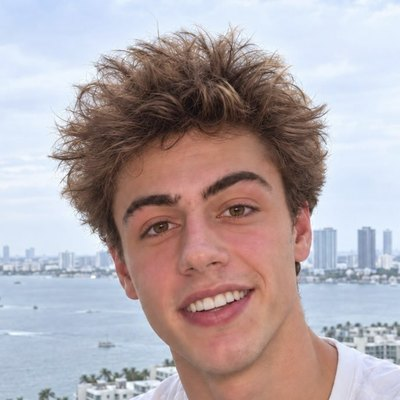
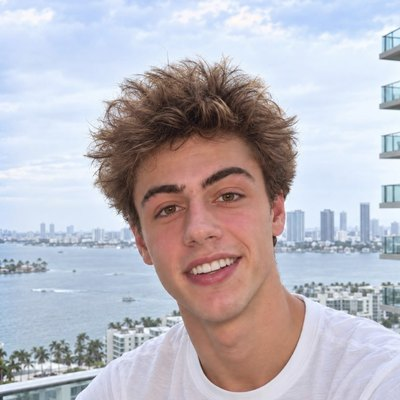
Worked with: 3+2 layout, follower counts, Kelly Cocaa, wider photo crops

diff --git a/index.html b/index.html
@@ -598,12 +598,13 @@
     flex-wrap: wrap;
     justify-content: center;
     gap: 16px;
-    margin: 0;
+    max-width: 960px;
+    margin: 0 auto;
     padding: 0;
     list-style: none;
   }
   .client-card {
-    flex: 0 1 calc((100% - 64px) / 5);
+    flex: 0 1 calc((100% - 32px) / 3);
     min-width: 0;
     padding: 16px;
     background: var(--glass-bg);
@@ -629,7 +630,23 @@
     box-shadow: 0 0 0 1.5px var(--glass-border);
     display: block;
   }
+  .client-followers {
+    display: flex;
+    flex-direction: column;
+    font-family: var(--font-display);
+    font-weight: 700;
+    font-size: var(--text-sm);
+    line-height: 1.15;
+    color: var(--ink);
+  }
+  .client-followers span {
+    font-family: var(--font-body);
+    font-weight: 400;
+    font-size: var(--text-2xs);
+    color: var(--ink-dim);
+  }
   .client-bubble {
+    margin-left: auto;
     padding: 6px 10px;
     border-radius: var(--radius-pill);
     background: var(--maroon);
@@ -656,8 +673,8 @@
     overflow-wrap: anywhere;
   }
   .client-about span { display: block; }
-  @media (max-width: 1100px) {
-    .client-card { flex-basis: calc((100% - 32px) / 3); }
+  @media (max-width: 900px) {
+    .client-bubble { margin-left: 0; }
   }
   @media (max-width: 640px) {
     .client-row { gap: 12px; }
@@ -665,6 +682,7 @@
     .client-card-top { gap: 8px; margin-bottom: 12px; }
     .client-avatar { width: 48px; height: 48px; }
     .client-bubble { padding: 5px 9px; font-size: var(--text-2xs); }
+    .client-followers { font-size: var(--text-xs); }
   }
 
   /* About */
@@ -1196,6 +1214,7 @@
       <li class="client-card">
         <div class="client-card-top">
           <img class="client-avatar" width="56" height="56" decoding="async" src="assets/client-lj.jpg" alt="">
+          <span class="client-followers">127k <span>followers</span></span>
           <span class="client-bubble">$25k/mo+</span>
         </div>
         <div class="client-name">LJ Elizarde</div>
@@ -1204,6 +1223,7 @@
       <li class="client-card">
         <div class="client-card-top">
           <img class="client-avatar" width="56" height="56" decoding="async" src="assets/client-matthew.jpg" alt="">
+          <span class="client-followers">7,034 <span>followers</span></span>
           <span class="client-bubble">$30k/mo+</span>
         </div>
         <div class="client-name">Matthew Feola</div>
@@ -1212,6 +1232,7 @@
       <li class="client-card">
         <div class="client-card-top">
           <img class="client-avatar" width="56" height="56" decoding="async" src="assets/client-arden.jpg" alt="">
+          <span class="client-followers">3,535 <span>followers</span></span>
           <span class="client-bubble">$10k/mo+</span>
         </div>
         <div class="client-name">Arden Walmsley</div>
@@ -1220,6 +1241,7 @@
       <li class="client-card">
         <div class="client-card-top">
           <img class="client-avatar" width="56" height="56" decoding="async" src="assets/client-josh.jpg" alt="">
+          <span class="client-followers">58.8k <span>followers</span></span>
           <span class="client-bubble">$100k/mo+</span>
         </div>
         <div class="client-name">Josh Chang</div>
@@ -1228,9 +1250,10 @@
       <li class="client-card">
         <div class="client-card-top">
           <img class="client-avatar" width="56" height="56" decoding="async" src="assets/avatar-kelly.jpg" alt="">
+          <span class="client-followers">84.7k <span>followers</span></span>
           <span class="client-bubble">$20k/mo+</span>
         </div>
-        <div class="client-name">Kelly</div>
+        <div class="client-name">Kelly Cocaa</div>
         <div class="client-about">fitness coach</div>
       </li>
     </ul>
